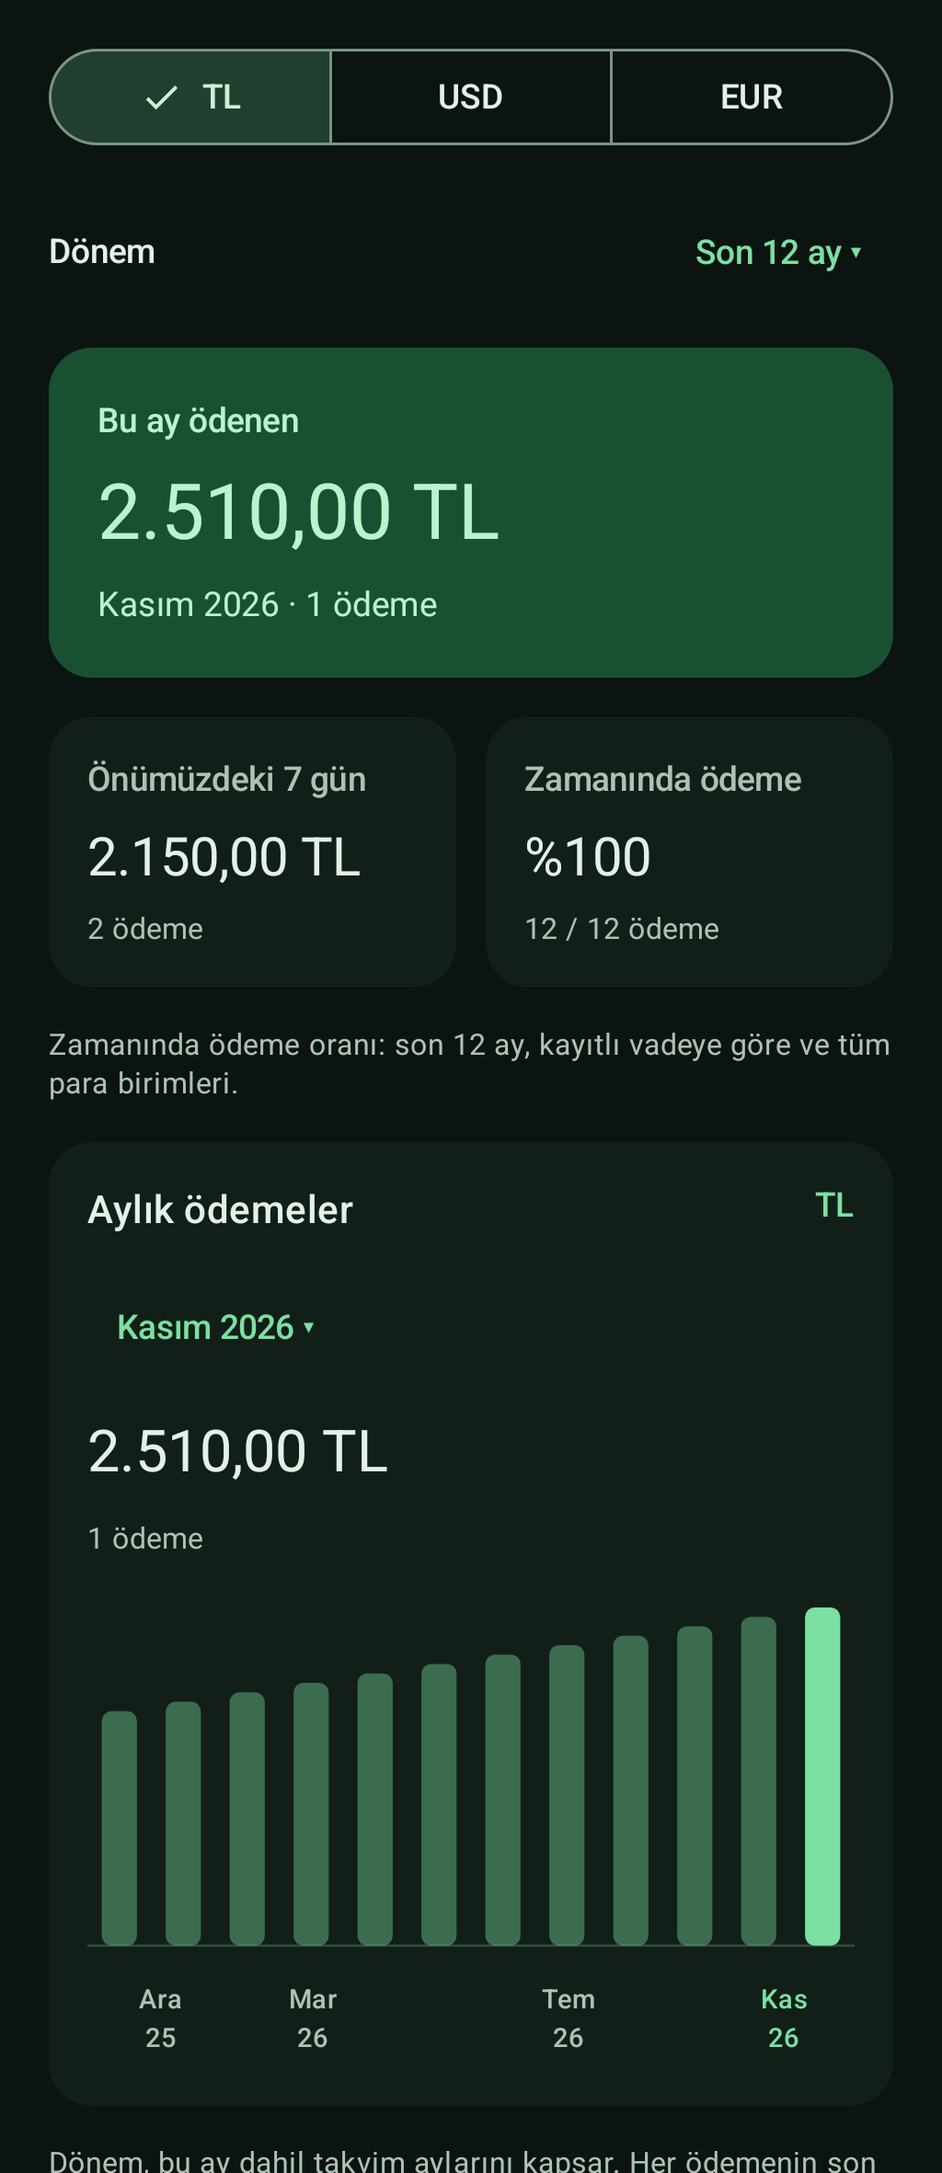
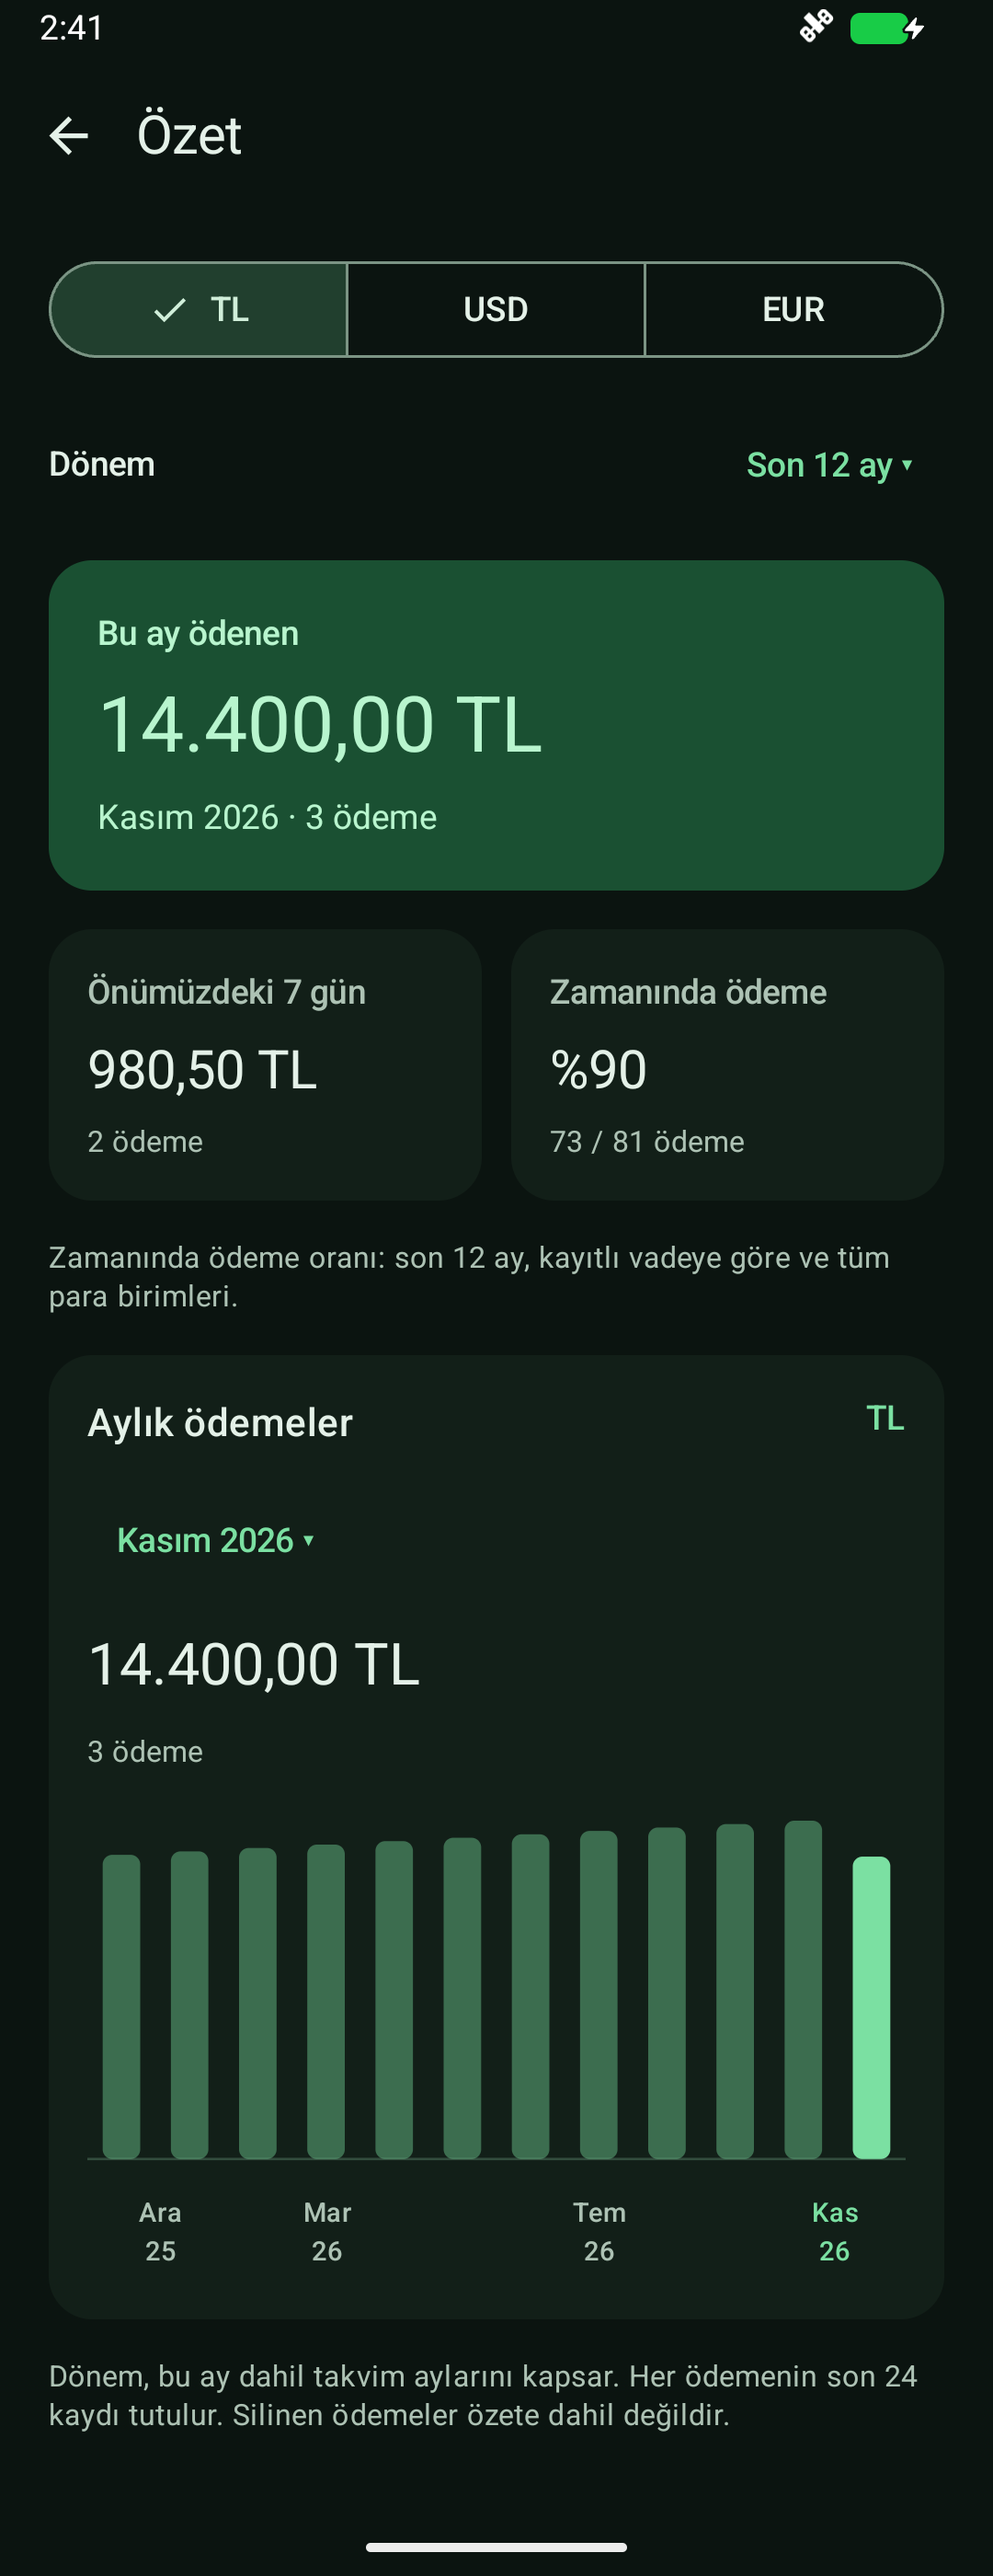
151126_edit_0245

diff --git a/README.md b/README.md
@@ -9,11 +9,17 @@ bağlantısını gerektirmez; veriler Room ile cihazda saklanır.
 
 ## Ekran görüntüleri
 
-Örnek verilerle hazırlanmış Compose önizlemeleri:
+Örnek verilerle uygulamadan alınan ekran görüntüleri. Listede farklı tutar, tarih
+ve tekrar kurallarına sahip 7 ödeme bulunur: Kredi, Bina aidatı, Vodafone,
+Turkcell, Elektrik, Netflix ve İnternet.
 
-| Ödeme listesi | Özet | Bildirimler |
+| Ödeme listesi | Ödeme ekleme | Filtreleme |
 | --- | --- | --- |
-| <img src="docs/screenshots/home.png" width="240" alt="Ödeme listesi ve bildirim sayacı"> | <img src="docs/screenshots/summary.png" width="240" alt="Aylık ödeme özeti ve grafik"> | <img src="docs/screenshots/notifications.png" width="240" alt="Gönderilen ödeme hatırlatmaları"> |
+| <img src="docs/screenshots/home.png" width="240" alt="Yedi kayıtlı ödeme bulunan ana ekran ve bildirim sayacı"> | <img src="docs/screenshots/add-payment.png" width="240" alt="Yeni ödeme oluşturma, tekrar kuralı, tarih ve saat seçimi"> | <img src="docs/screenshots/filters.png" width="240" alt="Para birimi, tutar aralığı ve ödeme tarihine göre filtreleme"> |
+
+| Özet | Bildirimler | Ayarlar |
+| --- | --- | --- |
+| <img src="docs/screenshots/summary.png" width="240" alt="Son 12 ayın ödeme özeti ve aylık grafik"> | <img src="docs/screenshots/notifications.png" width="240" alt="Farklı ödemeler için gönderilen hatırlatmalar"> | <img src="docs/screenshots/settings.png" width="240" alt="Ödeme hatırlatmaları, bildirim sesi ve maaş günü ayarları"> |
 
 ## Neler yapabilirsiniz?
 
